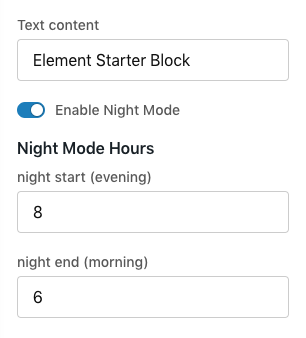
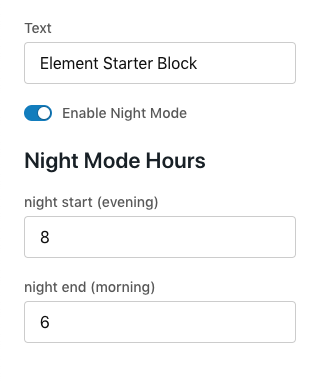
V2-3545 Documentation should not recommend using shapes (#17)
* V2-3545 Chris' feedback

* V2-3545 proptypes how-to updated to use sectionHeader instead of shape

* V2-3545 updated screenshot

* V2-3545 proptypes tutorial updated to use sectionHeader instead of shape

* V2-3545 remove shape, add table of contents

diff --git a/tutorials/proptypes/README.md b/tutorials/proptypes/README.md
@@ -110,51 +110,47 @@ That will launch a browser window where you'll get preview of the block that wil
 
 ![Night Mode](nightMode.png)
 
-## Add a New Config Shape
+## Add a New Config Section
 
-Now let's add a more sophisticated structure to our schema. You can group together a set of Element Proptypes using a special type called `shape`. It allows you to nest a set of Element Proptypes inside it.
+Now let's add a couple related fields to our schema. To give these fields some context and group them together in Site Designer we'll use a `sectionHeader`.
 
-Back in `config.js`, inside `getConfigSchema`, add this new shape below `isNightModeEnabled`.
+Back in `config.js`, inside `getConfigSchema`, add this new `sectionHeader` and two number fields below `isNightModeEnabled`.
 
 ```js
 isNightModeEnabled: {
     label: 'Enable Night Mode',
     type: ElementPropTypes.bool
 },
-nightModeHours: {
-    label: 'Night Mode Hours',
-    type: ElementPropTypes.shape({
-        start: {
-            label: 'night start (evening)',
-            type: ElementPropTypes.number
-        },
-        end: {
-            label: 'night end (morning)',
-            type: ElementPropTypes.number
-        }
-    })
+nightModeHeader: {
+    type: ElementPropTypes.sectionHeader
+},
+nightStart: {
+    label: 'night start (evening)',
+    type: ElementPropTypes.number
+},
+nightEnd: {
+    label: 'night end (morning)',
+    type: ElementPropTypes.number
 }
 ```
 
-Update `defaultConfig` to mirror the structure of the schema, but ignoring the `label` and `type`.
+Update `defaultConfig` to include the text of our header, and the default values of our two new fields.
 
 ```js
 isNightModeEnabled: true,
-nightModeHours: {
-    start: 8,
-    end: 6
-}
+nightModeHeader: 'Night Mode Hours',
+nightStart: 8,
+nightEnd: 6
 ```
 
-## Use the `nightModeHours` Shape in the Block
+## Use `nightStart` and `nightEnd` in the Block
 
-We're going to update the block component so that it compares the current time of day to our new `nightModeHours` to decide what styles to use.
+We're going to update the block component so that it compares the current time of day to our new `nightStart` and `nightEnd` to decide what styles to use.
 
-In `block.js`, update the code that's reading the props so that we're getting `nightModeHours`, and also extracting its start and end properties.
+In `block.js`, update the code that's reading the props so that it's getting the new `nightStart` and `nightEnd` properties.
 
 ```js
-const { classes, css, isNightModeEnabled, nightModeHours, text } = props;
-const { start, end } = nightModeHours;
+const { classes, css, isNightModeEnabled, nightEnd, nightStart, text } = props;
 ```
 
 Replace the code that determines if we are in night mode:
@@ -164,10 +160,10 @@ Replace the code that determines if we are in night mode:
 const now = new Date().getHours();
 
 // if somebody entered a night start value less than 12, assume they are using a 12 hour clock and convert it to 24 hour time.
-const pmStart = start < 12 ? start + 12 : start;
+const pmStart = nightStart < 12 ? nightStart + 12 : start;
 
 // is it nighttime in the user's time zone?
-const isNight = now >= pmStart || now < end;
+const isNight = now >= pmStart || now < nightEnd;
 
 // use night mode if night mode is enabled and it is nighttime
 const isNightMode = isNightModeEnabled && isNight;
@@ -176,12 +172,11 @@ const isNightMode = isNightModeEnabled && isNight;
 Here is what it should look like all together, without the comments:
 
 ```js
-const { classes, css, isNightModeEnabled, nightModeHours, text } = props;
-const { start, end } = nightModeHours;
+const { classes, css, isNightModeEnabled, nightEnd, nightStart, text } = props;
 
 const now = new Date().getHours();
-const pmStart = start < 12 ? start + 12 : start;
-const isNight = now >= pmStart || now < end;
+const pmStart = nightStart < 12 ? nightStart + 12 : start;
+const isNight = now >= pmStart || now < nightEnd;
 const isNightMode = isNightModeEnabled && isNight;
 const modeClass = isNightMode ? classes.night : classes.day;
 
@@ -210,10 +205,8 @@ Replace the text with whatever you would like, and give it the rest of our `defa
 ```js
 text: 'Day or Night',
 isNightModeEnabled: true,
-nightModeHours: {
-    start: 8,
-    end: 6
-}
+nightStart: 8,
+nightEnd: 6
 ```
 
 Now change the start/end so that your local preview will switch modes. For example, if the current time is 10:00 in the morning, change the `end` to 11 so that the block still considers it nighttime.
@@ -245,4 +238,4 @@ Press the edit button and you'll be able to see the form generated by the config
 
 Use the Preview button to test changes made to the Night Mode Hours.
 
-Changes made to the block config in Site Designer to the `nighModeHours.start` and `nightModeHours.end` fields will not update the block in real time. This is because our `isNightMode` logic above is triggered one time when the block is rendered, but is not tied to a React lifecycle event such as `componentDidUpdate`.
+Changes made to the block config in Site Designer to the `nightStart` and `nightEnd` fields will not update the block in real time. This is because our `isNightMode` logic above is triggered one time when the block is rendered, but is not tied to a React lifecycle event such as `componentDidUpdate`. You may preview the theme to see the changes.

diff --git a/how-to/proptypes/README.md b/how-to/proptypes/README.md
@@ -1,10 +1,11 @@
 # Add Element Proptypes to a Block
 
-In this how-to guide we will add new Element Proptypes to an existing Element Block React Component and organize them using an Element Proptype `shape`.
+In this how-to guide we will add new Element Proptypes to an existing Element Block React Component and organize them using an Element Proptype `sectionHeader`.
 
 ## 1. Find the Current Block Configs
 
 Open up your block's code and find `/src/configs.js`. It will look something like this:
+
 ```js
 export const getConfigSchema = ElementPropTypes => {
     return {
@@ -22,7 +23,8 @@ export const defaultConfig = {
 
 ## 2. Add a New Element Proptype
 
-Add another proptype to the schema. You need to provide a label property and a type. For this example we'll add a `color` prop, but look at the [Proptypes Reference](https://github.com/volusion/element-proptypes) for other available types.
+Add another proptype to the schema. You need to provide a label property and a type. For this example we'll add a `textColor` prop with a PropType of `color`, but look at the [Proptypes Reference](/references/proptypes/README.md) for other available types.
+
 ```js
 export const getConfigSchema = ElementPropTypes => {
     return {
@@ -41,6 +43,7 @@ export const getConfigSchema = ElementPropTypes => {
 ## 3. Add a New Default Value
 
 Still in `config.js`, when you add a new Element Proptype to a schema, you need to give it a default value:
+
 ```js
 export const defaultConfig = {
     text: 'Element Starter Block',
@@ -58,6 +61,7 @@ We can now use that new proptype in the block. Open `/src/Block.js` and add a st
 ## 5. Add Another Related Element Proptype
 
 Return to `/src/configs.js` and add another prop: `backgroundColor`.
+
 ```js
 export const getConfigSchema = ElementPropTypes => {
     return {
@@ -77,9 +81,10 @@ export const getConfigSchema = ElementPropTypes => {
 };
 ```
 
-## 6. Organize Proptypes with a Shape
+## 6. Organize Proptypes with a Section Header
 
-Group the colors together using `ElementPropTypes.shape`:
+Group the colors together under an `ElementPropTypes.sectionHeader`:
+
 ```js
 export const getConfigSchema = ElementPropTypes => {
     return {
@@ -87,18 +92,16 @@ export const getConfigSchema = ElementPropTypes => {
             label: 'Text content',
             type: ElementPropTypes.string
         },
-        colors: {
-            label: 'Colors',
-            type: ElementPropTypes.shape({
-                textColor: {
-                    label: 'Text color',
-                    type: ElementPropTypes.color
-                },
-                backgroundColor: {
-                    label: 'Background color',
-                    type: ElementPropTypes.color
-                }
-            })
+        colorsHeader: {
+            type: ElementPropTypes.sectionHeader
+        },
+        textColor: {
+            label: 'Text color',
+            type: ElementPropTypes.color
+        },
+        backgroundColor: {
+            label: 'Background color',
+            type: ElementPropTypes.color
         }
     };
 };
@@ -106,30 +109,32 @@ export const getConfigSchema = ElementPropTypes => {
 
 ## 7. Update Config Schema Usage
 
-Restructure the default configs to match the new nesting provided by the shape:
+Update the default configs to include the new props:
+
 ```js
 export const defaultConfig = {
     text: 'Element Starter Block',
-    colors: {
-        textColor: 'rgba(130,104,252,.8)',
-        backgroundColor: 'yellow'
-    }
+    colorsHeader: 'Colors',
+    textColor: 'rgba(130,104,252,.8)',
+    backgroundColor: 'yellow' // merchant changes are stored in RBGA
 };
 ```
- 
-Go back into `/src/Block.js` and update the style of the `<h1>` to use our new property and nested structure. Be careful to use `props.colors` not `props.color`.
+
+Go back into `/src/Block.js` and update the style of the `<h1>` to use our new property.
 
 ```html
-<h1 style={{color: props.colors.textColor, background: props.colors.backgroundColor}}>
+<h1 style={{color: props.textColor, background: props.backgroundColor}}>
 ```
 
 ## 8. View Your Config in Site Designer
 
 Build and update your block:
+
 ```shell
 npm run build
 element update
 ```
-Add your block to a theme, or reload your theme with the block, and you'll see the new props and default values, grouped under the Colors heading from the shape:
 
-![New Proptypes Colors Shape in Site Designer](newShapeInSiteDesigner.png)
+Add your block to a theme, or reload your theme with the block, and you'll see the new props and default values, grouped under the "Colors" `sectionHeader`:
+
+![New Proptypes Section Header in Site Designer](newSectionHeaderSiteDesigner.png)

diff --git a/references/proptypes/README.md b/references/proptypes/README.md
@@ -1,5 +1,25 @@
 # Visual Guide to Proptypes
 
+## Table of Contents
+
+* [number](#number)
+* [bool](#bool)
+* [string](#string)
+* [color](#color)
+* [product](#product)
+* [category](#category)
+* [sectionHeader](#sectionheader)
+* [image](#image)
+* [slider](#slider)
+* [editorFull](#editorfull)
+* [editorMinimal](#editorminimal)
+* [readOnly](#readonly)
+* [oneOf](#oneof)
+* [arrayOf shape](#arrayof-shape)
+* [embeddable](#embeddable)
+* [Private Properties](#private-properties)
+* [Further Reading](#further-reading)
+
 ## number
 
 ![Number: 42](proptype-number.png)
@@ -68,6 +88,8 @@ export const defaultConfig = {
 };
 ```
 
+**Note:** merchant edits to color fields will are stored in RGBA format.
+
 ## product
 
 ![Product](proptype-product.png)
@@ -79,6 +101,8 @@ product: {
 }
 ```
 
+In the block, `props.product` will be the ID of the product selected by the merchant.
+
 ## category
 
 ![Category](proptype-category.png)
@@ -89,6 +113,8 @@ category: {
     type: ElementPropTypes.category
 }
 ```
+
+In the block, `props.category` will be the ID of the category selected by the merchant.
 
 ## sectionHeader
 
@@ -150,22 +176,7 @@ export const defaultConfig = {
 
 ## slider
 
-![Slider: default](proptype-slider.png)
-
-```js
-sliderDefault: {
-    label: 'Slider Default',
-    type: ElementPropTypes.slider
-}
-```
-
-```js
-export const defaultConfig = {
-
-};
-```
-
-![Slider: options](proptype-slider-options.png)
+![Slider: options](proptype-slider.png)
 
 ```js
 sliderOptions: {
@@ -263,35 +274,6 @@ export const defaultConfig = {
 };
 ```
 
-## shape
-
-![Shape](proptype-shape.png)
-
-```js
-shape: {
-    label: 'Shape',
-    type: ElementPropTypes.shape({
-        text: {
-            label: 'Text',
-            type: ElementPropTypes.string
-        },
-        url: {
-            label: 'Link',
-            type: ElementPropTypes.string
-        }
-    })
-}
-```
-
-```js
-export const defaultConfig = {
-    shape: {
-        text: 'Link',
-        url: 'https://'
-    }
-};
-```
-
 ## arrayOf shape
 
 ![arrayOf Shape](proptype-array-of-shape.png)
@@ -348,7 +330,7 @@ embeddable: {
 ```js
 export const defaultConfig = {
     embeddable: {
-        embedType: 'iframe',
+        embedType: 'iframe', // the only supported value
         url: 'https://www.volusion.com/login',
         height: 150
     }
@@ -369,5 +351,5 @@ string: {
 
 ## Further reading
 
-- [Working with Element Proptypes Tutorial](/tutorials/proptypes/README.md)
-- [How to: Add Element Proptypes to a Block](/how-to/proptypes/README.md)
+* [Working with Element Proptypes Tutorial](/tutorials/proptypes/README.md)
+* [How to: Add Element Proptypes to a Block](/how-to/proptypes/README.md)
